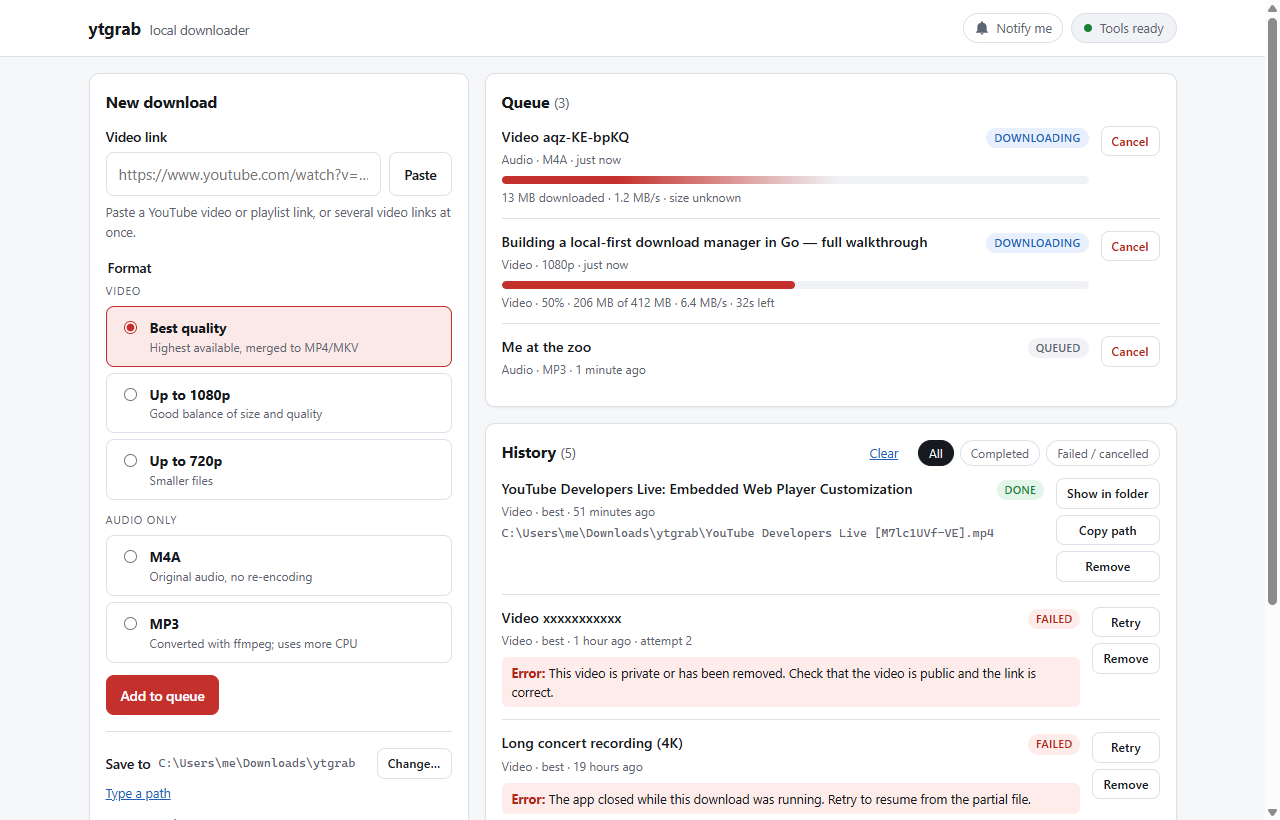
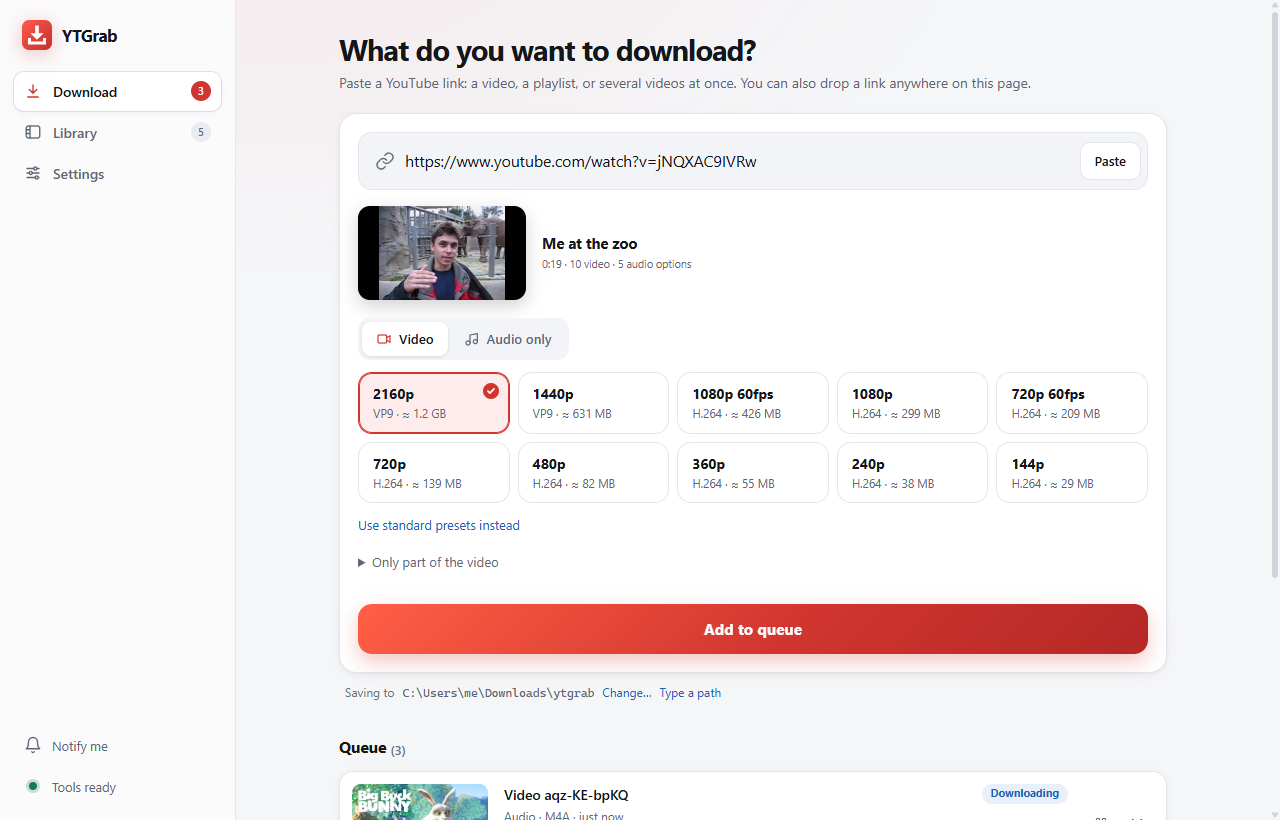
Docs: new screenshot; architecture covers the tray, autostart, updates, pause, and clips

diff --git a/docs/ARCHITECTURE.md b/docs/ARCHITECTURE.md
@@ -6,9 +6,10 @@ YTGrab is a single Go program that serves a browser UI on `127.0.0.1` and orches
 
 | Component | Owns |
 | --- | --- |
-| Browser UI (`web/static`) | Link entry, format and playlist review, queue and history, settings. Plain HTML, CSS, and ES modules embedded in the binary; no build step. |
+| Browser UI (`web/static`) | Download, Library, and Settings views: link entry, format and playlist review, queue and history, settings. Plain HTML, CSS, and ES modules embedded in the binary; no build step. |
 | Go server (`internal/api`) | Input validation, the JSON API, progress streams (SSE), local-only request checks. |
-| Queue (`internal/queue`) | A bounded pool of workers (two by default), cancellation, and automatic retry of network failures. |
+| Queue (`internal/queue`) | A bounded pool of workers (two by default), priority order, pause and cancellation, and automatic retry of network failures. |
+| Desktop (`internal/tray`, `internal/autostart`, `internal/activity`) | The tray or menu-bar icon and its menu, download notifications, and starting at sign-in. |
 | Store (`internal/store/sqlite`) | Jobs and settings in SQLite (WAL mode, versioned migrations embedded in the binary). |
 | yt-dlp adapter (`internal/downloader/ytdlp`) | Building safe argument lists, parsing machine-readable progress, format inspection, playlist listing. |
 | yt-dlp / FFmpeg | Extraction, downloading, resumable `.part` files, merging and conversion. |
@@ -28,36 +29,43 @@ Media bytes never pass through the Go process or the browser: yt-dlp writes dire
 
 ```text
 cmd/ytgrab/                  entry point and CLI (run, doctor, setup)
-internal/app/                startup, shutdown, wiring, doctor checks
+internal/activity/           queue summaries for the tray (counts, newly finished downloads)
+internal/app/                startup, shutdown, wiring, doctor checks, update checks
 internal/app/deps/           finding tools and reading their versions
 internal/api/                HTTP routes, SSE, request protection
+internal/autostart/          start at sign-in (Run key, XDG autostart, Login Agent)
 internal/config/             environment configuration
-internal/domain/             jobs, states, presets, URL parsing
+internal/cooldown/           the shared pause when YouTube limits the network
+internal/diskspace/          free-space checks before a download starts
+internal/domain/             jobs, states, presets, sections, folder names, URL parsing
 internal/downloader/ytdlp/   yt-dlp process adapter, inspection, playlists
 internal/picker/             the operating system's folder window
 internal/process/            cross-platform process-tree control
-internal/queue/              scheduling, cancellation, retries
-internal/settings/           output-folder setting
+internal/queue/              scheduling, pause, cancellation, retries
+internal/reveal/             show a file in its folder, open a file or folder
+internal/settings/           user settings (folder, parallel downloads, format, speed, subtitles, …)
 internal/setup/              "ytgrab setup": tool installation
 internal/store/sqlite/       persistence and migrations
+internal/tray/               tray / menu-bar icon, menu, notifications
+internal/trayhost/           whether this desktop can show a tray icon
 web/static/                  the browser UI
 ```
 
 ## Download flow
 
-1. The page submits a link with either a preset (`video-best`, `video-1080`, `video-720`, `audio-m4a`, `audio-mp3`) or a format picked from an inspection.
+1. The page submits a link with either a preset (`video-best`, `video-1080`, `video-720`, `audio-m4a`, `audio-mp3`, `audio-opus`, `audio-flac`, `audio-wav`) or a format picked from an inspection, and optionally a section (start and end seconds) to download only part of the video.
 2. The server validates the link (YouTube hosts only, one video ID), stores a `queued` job, and returns it.
 3. A worker starts yt-dlp with an explicit argument list — never a shell string — and the URL as the final argument after `--`.
 4. yt-dlp prints progress through a custom `--progress-template`; the adapter parses it and updates the job. The page receives updates over Server-Sent Events.
 5. The job completes only after yt-dlp exits successfully and the reported output file is confirmed to exist inside the output folder.
 
-Output files are named `Title [video-id] 1080p.ext` (audio: `… 130k.ext`), so different qualities of one video never collide. A picked video format is paired with audio from the same container family (MP4 with M4A, WebM with WebM) so merges stay lossless.
+Output files are named `Title [video-id] 1080p.ext` (audio: `… 130k.ext`; a section adds its range, `… 720p 1m05s-2m30s.ext`), so different qualities and clips of one video never collide. Playlist downloads can go into a subfolder named after the playlist; the name is made safe for every system (`domain.SafeFolderName`) when the job is created and checked again before downloading. Subtitles (embedded, or saved as `.srt`) and the speed limit are settings applied to each download as yt-dlp options built from fixed lists of values. A picked video format is paired with audio from the same container family (MP4 with M4A, WebM with WebM) so merges stay lossless.
 
 ### Job states
 
-`queued → downloading → processing → completed`, with `failed` and `cancelled` reachable from any active state. Transitions are enforced in one place (`internal/domain`). Retry keeps the job ID, increments `attempt`, clears progress and errors, and returns the job to `queued`; completed jobs cannot be retried.
+`queued → downloading → processing → completed`, with `failed` and `cancelled` reachable from any active state. `paused` is reachable from any active state and leads back to `queued` (resume) or to `cancelled`; a paused job keeps its place and its partial file, is never started by workers, and survives restarts. Waiting jobs start in `priority` order (raised by "move to top"), then oldest first. Transitions are enforced in one place (`internal/domain`). Retry keeps the job ID, increments `attempt`, clears progress and errors, and returns the job to `queued`; completed jobs cannot be retried.
 
-Jobs are stored as a JSON payload with indexed ID, state, video ID, and creation time. A partial unique index prevents two active jobs for the same video, and updates compare the previous state atomically. On startup, jobs left active by a closed app become `failed` with the `interrupted` code; Retry resumes them from yt-dlp's partial file.
+Jobs are stored as a JSON payload with indexed ID, state, video ID, and creation time. A partial unique index prevents two active (including paused) jobs for the same video, and updates compare the previous state atomically. On startup, jobs left active by a closed app become `failed` with the `interrupted` code; Retry resumes them from yt-dlp's partial file.
 
 ## Format inspection
 
@@ -88,6 +96,16 @@ YouTube sometimes answers with HTTP 429 or a "confirm you're not a bot" check. R
 
 On startup YTGrab claims its port before opening the database. If the port is taken by a running YTGrab (recognized by the `X-YTGrab-Version` response header), the new launch opens the browser to it and exits; it never runs startup recovery or starts workers against the running copy's jobs. An exclusive lock on `ytgrab.lock` in the data folder (`LockFileEx` on Windows, `flock` elsewhere) also stops a second copy on a different port from sharing the database. The lock is released automatically if the process ends.
 
+## On the desktop
+
+Started from a shortcut on Windows (detected by owning its console), YTGrab starts itself again without a console window and writes its log to `ytgrab.log` in the data folder; startup errors are shown in a message box. Where a tray exists (Windows always; Linux with a StatusNotifierWatcher such as KDE, Ubuntu, or GNOME with AppIndicator; macOS builds made with cgo) it shows an icon with Open, Open downloads folder, Start at login, and Quit, using `fyne.io/systray`. Quit cancels the server's context, the same as Ctrl+C. `YTGRAB_NO_TRAY=1` turns the icon off.
+
+`internal/activity` polls the job list every two seconds and reports counts for the icon's tooltip and the downloads that just finished or failed, which become system notifications (from the tray icon on Windows, `org.freedesktop.Notifications` on Linux, `osascript` on macOS). While a YTGrab page is open, recognized by its open progress streams, the tray stays quiet so the page's own notifications aren't doubled.
+
+Start at login writes a per-user entry that runs YTGrab without `--open`, so it waits in the tray: the `Run` registry key on Windows, `~/.config/autostart/ytgrab.desktop` on Linux, and a Login Agent plist on macOS. Each start re-points an existing entry at the running program, so moving it or a package-manager update doesn't break it.
+
+The page can also be reached through the **Send to YTGrab** bookmark, which opens `/?url=<the YouTube page>`. The page only puts that link in the field; nothing is queued until the user presses Add, so another site can't queue downloads this way.
+
 ## Processes, cancellation, and shutdown
 
 Child processes run with a context. Cancellation stops the whole process tree (`taskkill /T` on Windows, a process group on Unix), and yt-dlp keeps its `.part` file so a retry resumes. On Ctrl+C or SIGTERM the server stops accepting requests, closes open progress streams, and cancels running jobs; they are marked `interrupted` on the next start.
@@ -98,9 +116,13 @@ Tools are found in this order: `YTGRAB_TOOLS_DIR`, a `tools` folder beside the p
 
 yt-dlp is the part most likely to need updating, because YouTube changes often. The server looks up the latest yt-dlp release at most once a day (a single redirect request, in the background) and marks the installed one as outdated when a newer release exists. The tools panel and `ytgrab doctor` then offer an update, which installs the new version into YTGrab's own tools folder — never over a system-wide yt-dlp — with the same checksum verification as setup, and is refused while downloads are running.
 
+Unless turned off in Settings, a background loop updates yt-dlp by itself: two minutes after start and then every 30 minutes, when nothing is downloading and a newer release is known, it runs the same checksum-verified update.
+
+YTGrab's own releases are checked the same way (GitHub's `releases/latest` redirect, at most once a day, never for development builds). `GET /api/system/version` reports the result with the update command for how this copy was installed, recognized from its path (Scoop, Homebrew, the curl installer, `go install`); copies unpacked from a zip get a link to the release instead.
+
 `ytgrab doctor` reports tools, folders, and the port. `ytgrab setup` installs what is missing after asking: yt-dlp from its official GitHub release, verified against the published SHA-256 checksums; FFmpeg and Deno through winget or Homebrew; package-manager commands are printed on Linux.
 
-`scripts/package.ps1` builds release archives. The Windows zip bundles a checksum-verified `yt-dlp.exe`; every archive includes `manifest.json` (versions and hashes) and `SHA256SUMS`. FFmpeg and a JavaScript runtime are installed separately because of their size and licensing.
+`scripts/package.ps1` builds release archives. The release workflow builds the Windows and Linux archives on Windows and the macOS archives on a Mac (the menu-bar icon needs cgo), publishes them together, updates the Homebrew tap and Scoop bucket, and then installs the release with each method in CI to check it starts. The Windows zip bundles a checksum-verified `yt-dlp.exe`; every archive includes `manifest.json` (versions and hashes) and `SHA256SUMS`. FFmpeg and a JavaScript runtime are installed separately because of their size and licensing.
 
 ## Defaults
 
@@ -115,3 +137,7 @@ yt-dlp is the part most likely to need updating, because YouTube changes often. 
 | Playlist page size | 50 videos |
 | Videos per playlist confirmation | 200 |
 | Shutdown timeout | 5 seconds |
+| Speed limit | none |
+| Subtitles | off |
+| Automatic yt-dlp updates | on; checked every 30 minutes |
+| YTGrab and yt-dlp release checks | at most once a day |

diff --git a/docs/USER_GUIDE.md b/docs/USER_GUIDE.md
@@ -152,6 +152,7 @@ Optional environment variables, set before starting:
 | `YTGRAB_TOOLS_DIR` | Extra folder searched first for `yt-dlp`, `ffmpeg`, `ffprobe`, `deno`, `node`. |
 | `YTGRAB_DATA_DIR` | Folder for the job database. |
 | `YTGRAB_DOWNLOAD_DIR` | Initial output folder when none has been saved in the page. |
+| `YTGRAB_NO_TRAY` | Set to `1` to run without the tray or menu-bar icon. |
 
 Command-line: `ytgrab --open` starts and opens the browser; `ytgrab doctor` and `ytgrab setup` are described under Install; `ytgrab --version` prints the version.
 

diff --git a/docs/DEVELOPMENT.md b/docs/DEVELOPMENT.md
@@ -23,6 +23,7 @@ Configuration comes from environment variables:
 | `YTGRAB_TOOLS_DIR` | searched before the other tool locations |
 | `YTGRAB_DATA_DIR` | `ytgrab` in the user config folder (`%AppData%` on Windows) |
 | `YTGRAB_DOWNLOAD_DIR` | `Downloads/ytgrab`; setting it skips the first-run folder choice |
+| `YTGRAB_NO_TRAY` | `1` turns off the tray or menu-bar icon (for example on a machine without a desktop) |
 
 Use a separate `YTGRAB_DATA_DIR` while developing to keep your own settings and history untouched.
 

diff --git a/README.md b/README.md
@@ -6,7 +6,7 @@ A local YouTube downloader with a clean browser interface. Paste a link, pick th
 [![Go](https://img.shields.io/github/go-mod/go-version/Sanoy24/ytgrab)](go.mod)
 [![License: MIT](https://img.shields.io/badge/license-MIT-blue.svg)](LICENSE)
 
-![YTGrab showing a download queue with live progress and download history](docs/images/screenshot.png)
+![YTGrab's Download page: a pasted YouTube link with its thumbnail, quality choices, and the queue below](docs/images/screenshot.png)
 
 ## Features
 
